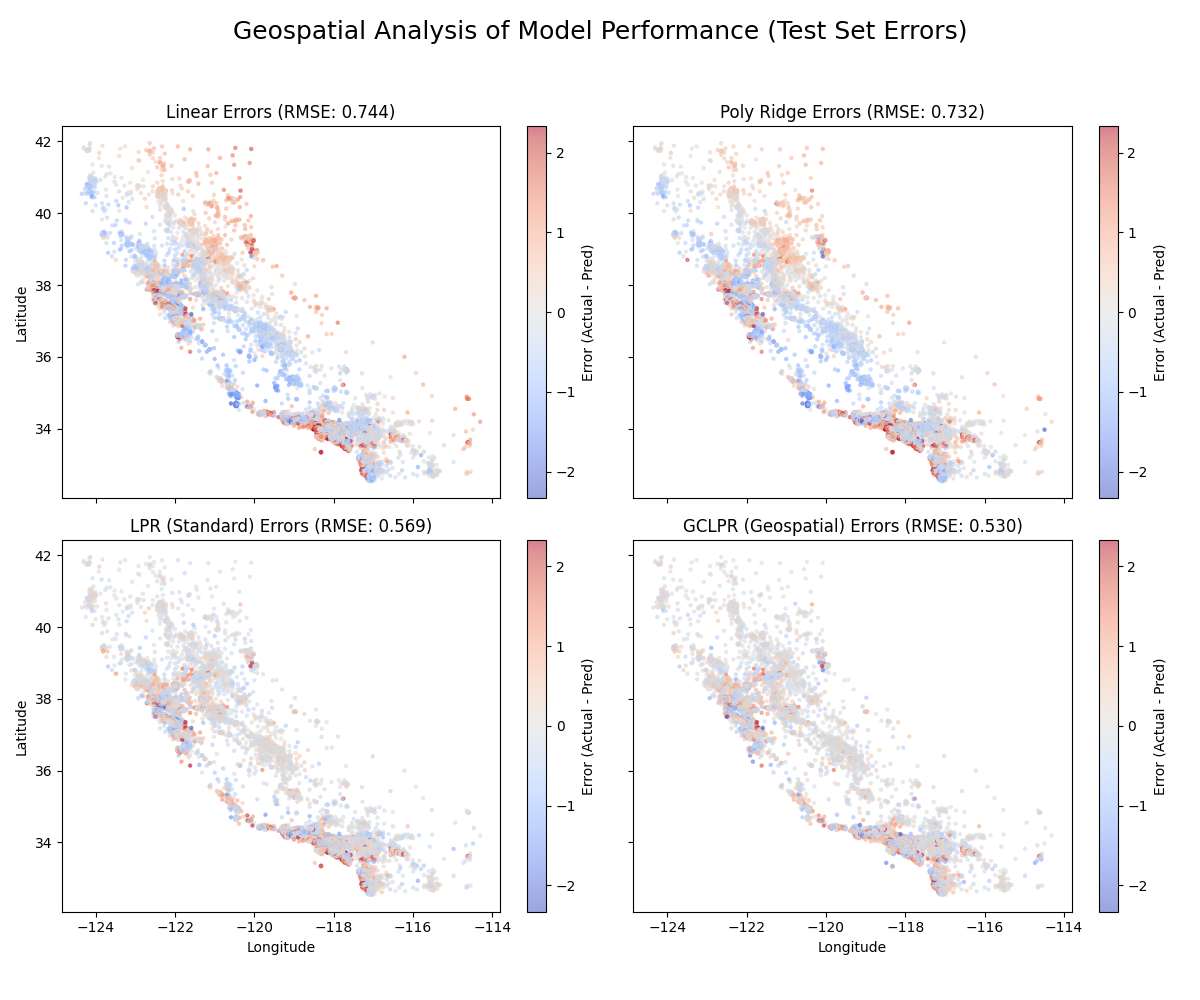
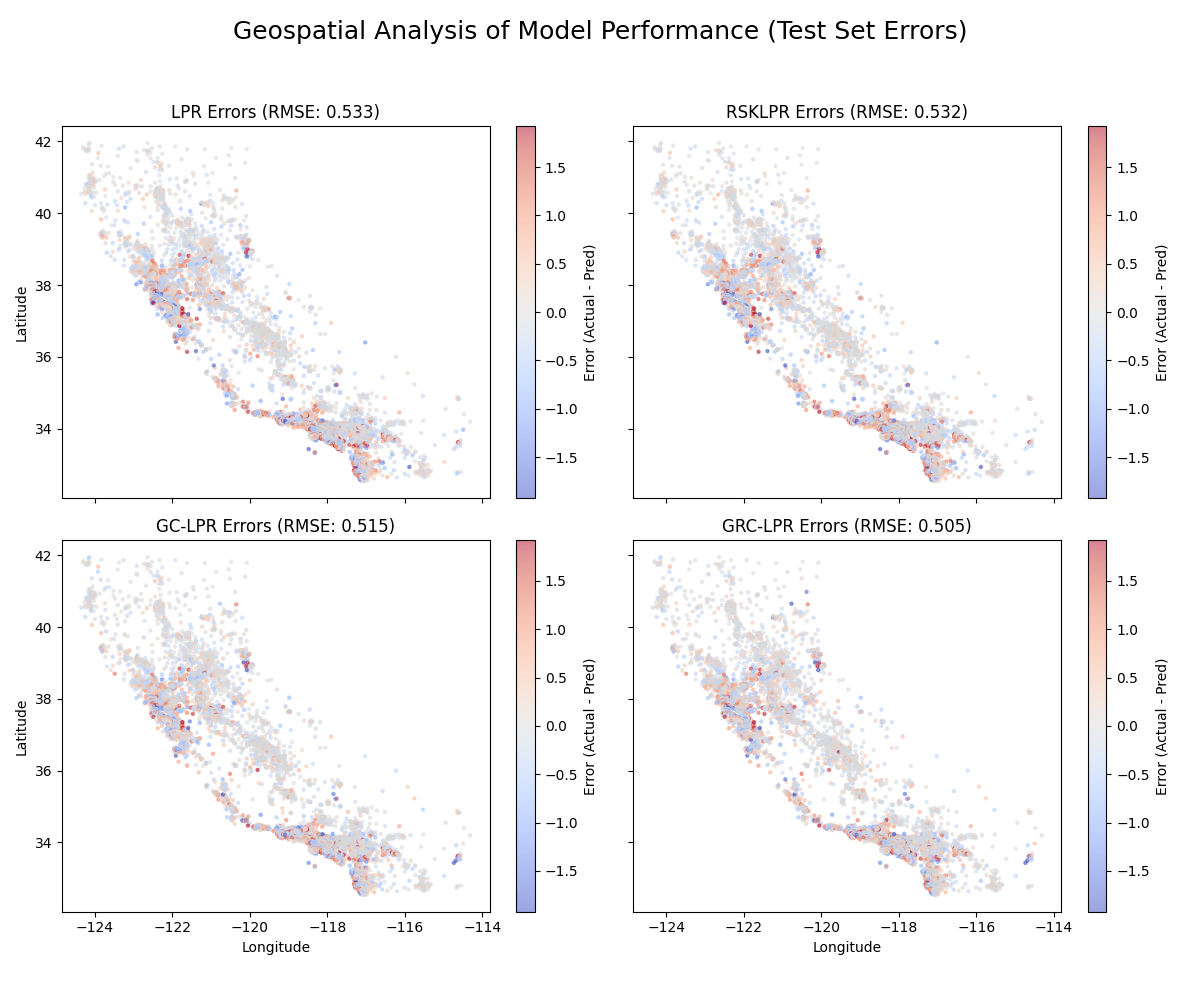
Updated the paper with experiment 1 results and plots.

diff --git a/paper/gclpr.tex b/paper/gclpr.tex
@@ -511,67 +511,71 @@ All empirical results use the public Python implementation in the \texttt{rsklpr
 The empirical goal here is to compare GC/GRC-LPR against feature-only local polynomial smoothers and simple generic baselines, rather than to claim a benchmark against all task-specific spatial or graph regression model classes.
 \subsection{Experiment 1: Geospatial Context on California Housing}
 
-As a foundational validation of the proposed framework, we test the hypothesis that explicit context kernels improve performance even when contextual variables (coordinates) are already present in the primary feature set. This is intended as a within-family comparison against feature-only local smoothers rather than a full ablation of every geographic representation choice. We evaluate GC-LPR against standard LPR, its robust variant RSKLPR \citep{shulman2025robust}, and common baselines including K-Nearest Neighbors (KNN), Global Polynomial Ridge, and Global Linear regression.
+As a foundational validation of the proposed framework, we test the hypothesis that explicit context kernels improve performance even when contextual variables (coordinates) are already present in the primary feature set. This is intended as a within-family comparison against feature-only local smoothers rather than a full ablation of every geographic representation choice. We evaluate GC-LPR against standard LPR, its robust variant RSKLPR \citep{shulman2025robust}, and a K-Nearest Neighbors (KNN) baseline.
 
 \paragraph{\textbf{Dataset and Setup}}
-We utilize the California Housing dataset \citep{pace1997sparse}, modeling the median house value (\texttt{MedHouseVal}) using a feature vector $Z$ containing \texttt{MedInc}, \texttt{AveRooms}, \texttt{Latitude}, and \texttt{Longitude}. Non-geospatial features were standardized. To ensure statistical rigor, we performed 10-fold cross-validation (CV), reporting the mean and standard deviation for all metrics.
+We utilize the California Housing dataset \citep{pace1997sparse}, modeling the median house value (\texttt{MedHouseVal}) using a feature vector $Z$ containing \texttt{MedInc}, \texttt{AveRooms}, \texttt{Latitude}, and \texttt{Longitude}. Non-geospatial features were standardized. We report a 5-fold outer evaluation, with mean and standard deviation over the held-out folds.
 
-All models were tuned via nested cross-validation within each fold. The hyperparameter search space for local polynomial models included neighborhood size ($k \in [7, 151]$), polynomial degree ($p \in \{0, 1\}$), and kernel types Laplacian and Tricube. For GC-LPR and GRC-LPR, the search also optimized the length-scale of the Haversine context kernel. The primary comparison is between:
+To control runtime while still reporting fold-wise uncertainty, we use a pilot-tune-then-refit protocol: hyperparameters are selected once on a pilot subset by 3-fold cross-validation and then held fixed while the models are refit and evaluated on each outer fold. The hyperparameter search space for local polynomial models included neighborhood size ($k \in [7,151]$), polynomial degree ($p \in \{0,1\}$), Laplacian and Tricube predictor kernels, and Minkowski or Mahalanobis distances. For GC-LPR and GRC-LPR, the search also optimized the length-scale of the Haversine context kernel. Additional evaluation details are collected in~\ref{app:exp_details}. The primary comparison is between:
 \begin{itemize}
     \item \textbf{LPR / RSKLPR (Standard):} Utilizes a single features kernel over the full feature vector $Z$. 
     \item \textbf{GC-LPR / GRC-LPR (Geospatial):} Employs the compound kernel $K_c = K_{\text{std}}(Z) \cdot K_{\text{geo}}(\text{Lat, Lon})$, where $K_{\text{geo}}$ is a Haversine-based RBF kernel.
 \end{itemize}
 
 \paragraph{\textbf{Results and Statistical Analysis}}
-The results of the 10-fold CV are summarized in Table \ref{tab:results_california_10fold}. GRC-LPR (the robust, context-aware variant) achieved the best performance across all metrics, with a mean RMSE of $0.5245$ and $R^2$ of $0.7932$. The predictions scatter plot is shown in Figure \ref{figure:california_housling_exp_1_scatter_grid}.
+The results are summarized in Table \ref{tab:results_california_10fold}. Both context-aware models outperform the feature-only local smoothers and KNN. GRC-LPR (the robust, context-aware variant) achieves the best mean performance across all three reported metrics, with RMSE $0.5045 \pm 0.0112$, MAE $0.3356 \pm 0.0074$, and $R^2 = 0.8087 \pm 0.0090$. GC-LPR is the second-best model, while standard LPR and RSKLPR remain clearly ahead of KNN. The predictions scatter plot is shown in Figure \ref{figure:california_housling_exp_1_scatter_grid}, and the fold-wise RMSE distributions are shown in Figure \ref{figure:california_exp1_rmse_boxplot}.
 
 \begin{figure}[ht]
 \centering
-\includegraphics[width=1.0\textwidth]{california_housling_exp_1_scatter_grid.png}
-\caption{Comparison of different model predictions for one of the CV test sets for Experiment 1. The y-axis is the predicted value and x-axis is the actual value. The dashed line represents the ideal predictions. GC-LPR shows tighter clustering around the ideal line compared to baselines.}
+{\includegraphics[width=1.0\textwidth]{california_housling_exp_1_scatter_grid.png}}
+\caption{Comparison of model predictions for Experiment 1, aggregating the held-out predictions across the 5 outer folds. The y-axis is the predicted value and x-axis is the actual value. The dashed line represents ideal predictions. The context-aware variants show tighter clustering around the ideal line than the feature-only smoothers.}
 \label{figure:california_housling_exp_1_scatter_grid}
 \end{figure}
 
 
 \begin{table}[h]
 \centering
-\caption{10-fold cross-validation results on the California Housing dataset (Mean $\pm$ SD). The context-aware GRC-LPR variant achieves the highest predictive accuracy.}
+\caption{Experiment 1 results on the California Housing dataset under the pilot-tune-then-refit protocol (5 held-out folds; mean $\pm$ SD). The context-aware GRC-LPR variant achieves the strongest average performance.}
 \label{tab:results_california_10fold}
 \small
 \begin{tabular}{@{}lrrr@{}}
 \toprule
 \textbf{Model} & \textbf{RMSE} & \textbf{MAE} & \textbf{$R^2$} \\ \midrule
-\textbf{GRC-LPR (Geospatial)} & \textbf{0.5245 $\pm$ 0.021} & \textbf{0.3489 $\pm$ 0.014} & \textbf{0.7932 $\pm$ 0.012} \\
-GC-LPR (Geospatial) & 0.5299 $\pm$ 0.022 & 0.3580 $\pm$ 0.017 & 0.7889 $\pm$ 0.013 \\
-KNN & 0.5454 $\pm$ 0.020 & 0.3584 $\pm$ 0.010 & 0.7761 $\pm$ 0.015 \\	
-RSKLPR (Standard) & 0.5550 $\pm$ 0.017 & 0.3727 $\pm$ 0.009 & 0.7684 $\pm$ 0.011 \\
-
-LPR (Standard) & 0.5676 $\pm$ 0.044 & 0.3771 $\pm$ 0.034 & 0.7565 $\pm$ 0.038 \\
-Poly-Ridge & 0.7314 $\pm$ 0.025 & 0.5337 $\pm$ 0.014 & 0.5978 $\pm$ 0.020 \\
-Linear & 0.7436 $\pm$ 0.021 & 0.5480 $\pm$ 0.011 & 0.5844 $\pm$ 0.016 \\ \bottomrule
+\textbf{GRC-LPR (Geospatial)} & \textbf{0.5045 $\pm$ 0.0112} & \textbf{0.3356 $\pm$ 0.0074} & \textbf{0.8087 $\pm$ 0.0090} \\
+GC-LPR (Geospatial) & 0.5152 $\pm$ 0.0115 & 0.3446 $\pm$ 0.0067 & 0.8005 $\pm$ 0.0087 \\
+RSKLPR (Standard) & 0.5318 $\pm$ 0.0091 & 0.3525 $\pm$ 0.0061 & 0.7875 $\pm$ 0.0068 \\
+LPR (Standard) & 0.5332 $\pm$ 0.0091 & 0.3573 $\pm$ 0.0063 & 0.7864 $\pm$ 0.0065 \\
+KNN & 0.5450 $\pm$ 0.0149 & 0.3574 $\pm$ 0.0073 & 0.7767 $\pm$ 0.0135 \\ \bottomrule
 \end{tabular}
 \end{table}
 
-The explicit decoupling of geospatial context leads to a marked improvement over standard LPR (RMSE $0.5299$ vs $0.5676$). Notably, incorporating the response-based robustness factor ($K_r$) in GRC-LPR further reduced error, suggesting that the housing data contains localized outliers or heavy-tailed distributions that the context-aware kernel helps isolate.
+\begin{figure}[ht]
+\centering
+{\includegraphics[width=0.85\textwidth]{california_exp1_main_rmse_boxplot.png}}
+\caption{Fold-wise RMSE distributions for Experiment 1 under the pilot-tune-then-refit protocol. The context-aware variants shift the full RMSE distribution downward, with GRC-LPR achieving the lowest center and the strongest average performance across folds.}
+\label{figure:california_exp1_rmse_boxplot}
+\end{figure}
+
+The explicit decoupling of geospatial context leads to a marked improvement over standard LPR (RMSE $0.5152$ vs $0.5332$). Incorporating the response-based robustness factor ($K_r$) improves the context-aware model further, reducing RMSE from $0.5152$ to $0.5045$ and MAE from $0.3446$ to $0.3356$. In contrast, the robustness factor alone offers only a marginal gain in the feature-only setting (RSKLPR vs.\ LPR).
 
 \paragraph{\textbf{Spatial Error Distribution}}
-To investigate the qualitative impact of context-awareness, we mapped the absolute prediction errors across California (Figure \ref{figure:california_geospatial_errors}). While global models  exhibit systematic biases in the Central Valley and high-density coastal regions, GRC-LPR shows a significantly more uniform error distribution. The context-aware model effectively adapts its local polynomial surface to the unique price-dynamics of the San Francisco Bay Area and Greater Los Angeles, whereas models lacking the context kernel tend to over-smooth across these distinct economic boundaries.
+To investigate the qualitative impact of context-awareness, we mapped the prediction errors across California (Figure \ref{figure:california_geospatial_errors}). The bottom row, corresponding to GC-LPR and GRC-LPR, is visibly more uniform than the feature-only local smoothers in the top row. The context-aware models better adapt to the distinct price dynamics of the San Francisco Bay Area and Greater Los Angeles, whereas the feature-only smoothers still over-smooth across these spatial boundaries.
 
 \begin{figure}[ht]
 \centering
-\includegraphics[trim={0 0 0 3cm},clip, width=1.0\textwidth]{california_housling_exp_1_geospatial_errors.png}
-\caption{Geospatial distribution of absolute errors across California on one of the CV test sets. The GC-LPR (Geospatial) model (bottom right) exhibits lower and more spatially uniform errors compared to global models, particularly in high-variance coastal urban centers.}
+{\includegraphics[width=1.0\textwidth]{california_housling_exp_1_geospatial_errors.png}}
+\caption{Geospatial distribution of prediction errors across California, aggregating the held-out predictions across the 5 outer folds. The top row shows feature-only local smoothers (LPR and RSKLPR), while the bottom row shows the context-aware variants (GC-LPR and GRC-LPR). The context-aware models exhibit lower and more spatially uniform errors, especially in high-variance coastal urban centers.}
 \label{figure:california_geospatial_errors}
 \end{figure}
 
 \paragraph{\textbf{Effective Neighborhood Analysis}}
-Hyperparameter optimization revealed a consistent discrepancy in optimal neighborhood sizes ($k$). In the 10-fold cross-validation reported here, standard LPR selected neighborhoods between 37 and 67 neighbors across folds (median 47), whereas GC-LPR selected neighborhoods between 97 and 147 neighbors (median 147). This empirical result aligns with our theoretical framework: by employing a context kernel to ``soft-filter'' geographically distant observations, the estimator effectively expands the pool of relevant local data. This increased effective sample size stabilizes the polynomial fit and reduces variance, while the context-aware weighting prevents the smoothing bias typically associated with large Euclidean neighborhoods in non-stationary spatial domains.
+The pilot tuning stage selected noticeably larger neighborhoods for the context-aware variants than for the feature-only local smoothers: $k=127$ for GC-LPR and $k=137$ for GRC-LPR, compared with $k=77$ for LPR and $k=37$ for RSKLPR. This is consistent with the intended role of the context kernel: it allows the estimator to borrow strength from a wider Euclidean neighborhood while still down-weighting geographically irrelevant observations. The result is a more stable local fit without the same degree of cross-region smoothing bias.
 
 \subsection{Experiment 2: Fusing Tabular, Geospatial, and Network Context in NYC}
 The purpose of the second experiment is to demonstrate the use of a more advanced geospatial kernel that takes similar inputs as in Experiment 1 (i.e., \texttt{Latitude} and \texttt{Longitude}), but employs a non-Euclidean kernel on a graph. The goal is to show that standard distance metrics (Euclidean or Haversine) are often insufficient, and that a context-aware model can capture a more meaningful, network-based definition of proximity.
 
 \paragraph{\textbf{Dataset and Setup}}
-We use an NYC Airbnb dataset from Inside Airbnb \citep{insideairbnb2026nyc} to predict listing \texttt{price}. The features include standard tabular attributes (\texttt{host\_listings\_count}, \texttt{room\_type}, etc.) as well as \texttt{Latitude} and \texttt{Longitude}. We compare our GRC-LPR model against a standard LPR and other common baselines: Global Linear, Global Polynomial, and K-Nearest Neighbors. The implementation uses a single train/test split, with all hyperparameters selected by 5-fold cross-validation on the training split; Table~\ref{tab:results_nyc} then reports the held-out test-set performance. Additional implementation details are collected in Appendix~\ref{app:exp_details}. 
+We use an NYC Airbnb dataset from Inside Airbnb \citep{insideairbnb2026nyc} to predict listing \texttt{price}. The features include standard tabular attributes (\texttt{host\_listings\_count}, \texttt{room\_type}, etc.) as well as \texttt{Latitude} and \texttt{Longitude}. We compare our GRC-LPR model against a standard LPR and other common baselines: Global Linear, Global Polynomial, and K-Nearest Neighbors. The implementation uses a single train/test split, with all hyperparameters selected by 5-fold cross-validation on the training split; Table~\ref{tab:results_nyc} then reports the held-out test-set performance. Additional implementation details are collected in~\ref{app:exp_details}.
 The primary comparison is between:
 
 \begin{itemize}
@@ -651,7 +655,7 @@ We construct a graph $G = (\mathcal{V}, \mathcal{E})$ representing the US domest
         \tilde{Y}^{(0)}_i &= 0.3\,\widetilde{\mathrm{PR}}_i + 0.5\,\widetilde{\mathrm{BW}}_i + 0.2\,\widetilde{\mathrm{Deg}}_i + 0.1\,\xi_i, \\
         \tilde{Y}^{(k+1)} &= 0.7\,\tilde{Y}^{(0)} + 0.3\,A\tilde{Y}^{(k)} \quad \text{for } k=0,\dots,6,
     \end{align*}
-    where \(A\) is the row-normalized traffic-weighted adjacency matrix and the final target is \(Y := \tilde{Y}^{(7)}\), shifted to remain strictly positive. For clarity, the synthetic propagation uses this traffic-weighted normalized adjacency, whereas the GC/GRC-LPR context kernel itself is built on the underlying undirected airport graph via a symmetric shortest-path similarity. Further implementation details are collected in Appendix~\ref{app:exp_details}.
+    where \(A\) is the row-normalized traffic-weighted adjacency matrix and the final target is \(Y := \tilde{Y}^{(7)}\), shifted to remain strictly positive. For clarity, the synthetic propagation uses this traffic-weighted normalized adjacency, whereas the GC/GRC-LPR context kernel itself is built on the underlying undirected airport graph via a symmetric shortest-path similarity. Further implementation details are collected in~\ref{app:exp_details}.
 \end{itemize}
 
 This process creates a scenario where two airports with similar feature vectors $Z$ (e.g., two medium-sized hubs) may have vastly different $Y$ values if they lie in different diffusion clusters. Standard LPR with a kernel only in $Z$ cannot distinguish them; GC-LPR with graph context can. Figure~\ref{fig:airport_setup} illustrates the underlying network topology and the synthetic delay function used as the prediction target.
@@ -921,8 +925,8 @@ because the cross term vanishes after conditioning on \((Z,C)\) and using \(\mat
 \section{Experimental Implementation Details}
 \label{app:exp_details}
 
-\subsection{Evaluation Protocols for Experiments 2 and 3}
-Experiments 2 and 3 use single hold-out evaluations rather than outer repeated cross-validation. In Experiment 2, the NYC Airbnb data are split once into \(80\%\) training and \(20\%\) test data, and the reported model in Table~\ref{tab:results_nyc} is selected by 5-fold cross-validation on the training split. In Experiment 3, the airport data are split once into \(75\%\) training and \(25\%\) test data, and the reported model in Table~\ref{tab:results_airport} is selected by 10-fold cross-validation on the training split. The open-source release includes the full preprocessing and parameter grids used in these runs.
+\subsection{Evaluation Protocols}
+Experiment 1 uses a pilot-tune-then-refit protocol rather than nested cross-validation. A pilot subset containing \(30\%\) of the California Housing data is drawn once, hyperparameters are selected on that subset by 3-fold cross-validation, and the selected configuration for each model is then held fixed while the models are refit and evaluated across 5 outer folds. Experiments 2 and 3 use single hold-out evaluations rather than outer repeated cross-validation. In Experiment 2, the NYC Airbnb data are split once into \(80\%\) training and \(20\%\) test data, and the reported model in Table~\ref{tab:results_nyc} is selected by 5-fold cross-validation on the training split. In Experiment 3, the airport data are split once into \(75\%\) training and \(25\%\) test data, and the reported model in Table~\ref{tab:results_airport} is selected by 10-fold cross-validation on the training split. The open-source release includes the full preprocessing and parameter grids used in these runs.
 
 \subsection{Synthetic Target Construction in Experiment 3}
 The airport graph is constructed as an undirected graph on direct routes. For the synthetic target, only the PageRank, betweenness, and degree features enter the base signal, after standardization; the latitude and longitude variables are included in the regression features but not in the base-delay formula. The propagation operator uses the traffic-weighted adjacency matrix, row-normalized so each row averages the delays of neighboring airports. The update is iterated for seven steps as displayed in Section~\ref{s:exp_airport}, and the final simulated delay is shifted so that the response remains strictly positive. The graph context kernel used by GRC-LPR is separate from this propagation step: it is computed from weighted shortest-path distance on the same underlying undirected graph, with edge length equal to the inverse route count, so the kernel itself is symmetric.
